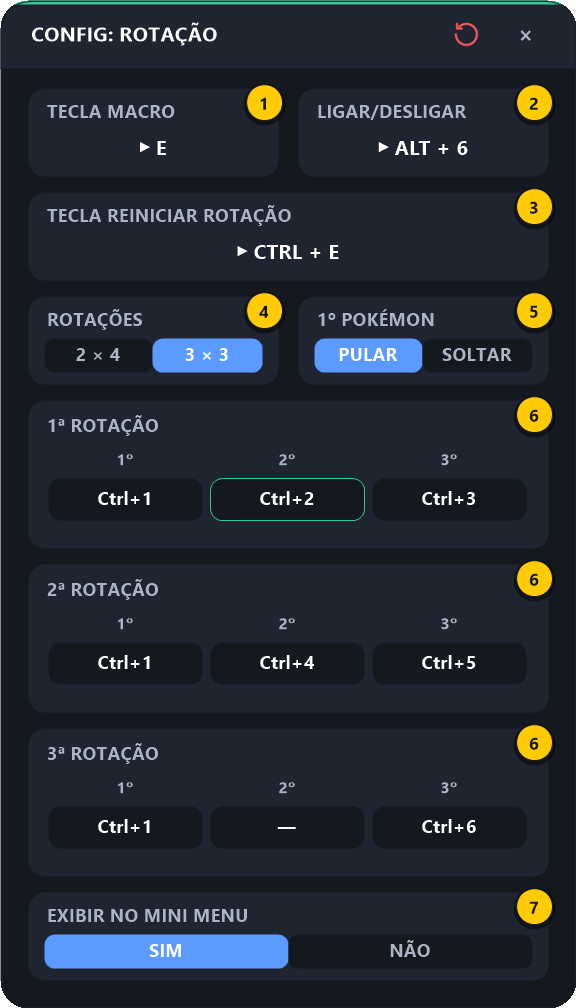
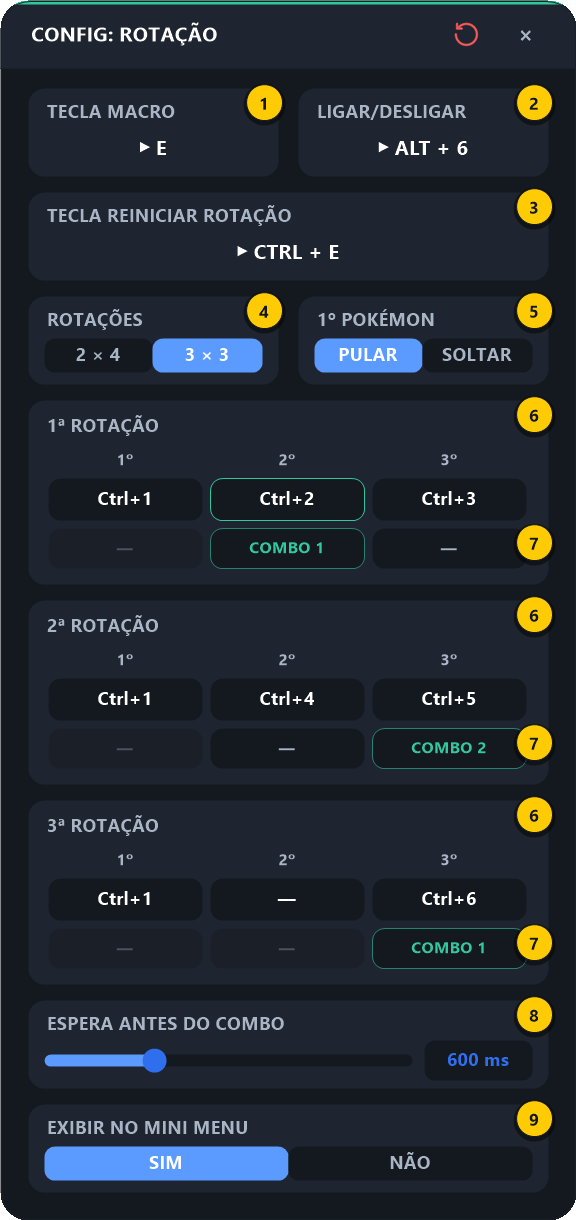
Rotação: soltar combo depois da troca, escolhido por passo
Cada passo da rotação pode soltar o Combo 1 (Principal) ou o Combo 2
(Secundário) logo depois do Ctrl+N, após uma espera configurável. O
combo roda num timer para apertos rápidos não serem descartados.

A interrupção de combo passa de flag para contador de geração: com a
flag, o combo interrompido voltava a soltar teclas depois que o novo
terminava.

diff --git a/docs/06-rotacao.md b/docs/06-rotacao.md
@@ -2,7 +2,7 @@
 
 [⬅ Cooldown](05-cooldown.md) · [README](../README.md) · Próximo: [Configurações Gerais ➡](07-configuracoes-gerais.md)
 
-A Rotação troca de pokémon com **uma tecla só**: cada vez que você aperta a **Tecla Macro**, ela envia o `Ctrl + N` do pokémon da vez e já passa para o próximo da ordem que você salvou. A HUD mostra, no próprio ícone, **qual `Ctrl + N` sai no próximo aperto**.
+A Rotação troca de pokémon com **uma tecla só**: cada vez que você aperta a **Tecla Macro**, ela envia o `Ctrl + N` do pokémon da vez e já passa para o próximo da ordem que você salvou. Se quiser, ela também **solta o Combo 1 ou o Combo 2 logo depois da troca** — você escolhe, passo por passo, em quais trocas isso acontece. A HUD mostra, no próprio ícone, **qual `Ctrl + N` sai no próximo aperto**.
 
 ---
 
@@ -17,8 +17,9 @@ A ordem é uma rotação depois da outra e, no fim da última, volta ao começo.
 
 Cada formato guarda a **sua própria** configuração: trocar de 2 × 4 para 3 × 3 e voltar não perde nada.
 
-- **Cada aperto envia um `Ctrl + N` só** — não há espera nem sequência automática; quem decide a hora de trocar é você.
-- **Cada aperto também para o combo que estiver rodando** (Combo Principal, Secundário ou Combo Revive). Assim as skills que faltavam — e o Full Defense — não saem no pokémon que acabou de entrar.
+- **Cada aperto envia um `Ctrl + N` só** — quem decide a hora de trocar é você.
+- **Cada aperto também para o combo que estiver rodando** (Combo Principal, Secundário, Combo Revive ou o combo pós-troca de um aperto anterior). Assim as skills que faltavam — e o Full Defense — não saem no pokémon que acabou de entrar.
+- **Combo depois da troca (opcional, por passo).** Embaixo de cada passo há uma opção: `—` (só troca, padrão), `COMBO 1` ou `COMBO 2`. Com um combo marcado, depois de enviar o `Ctrl + N` o macro espera a **Espera antes do combo** (o tempo do pokémon sair da pokébola) e solta o combo — veja [6.4](#64-combo-depois-da-troca).
 - Um passo **vazio (`—`)** é pulado. Ex.: no 2 × 4, deixando o 4º passo da 2ª rotação vazio, a ordem vira `1-2-3-4 | 1-2-5` e volta para o começo.
 - **Ligar a Rotação** (na HUD ou pelo atalho) sempre começa do início.
 - **O 1º pokémon de cada rotação fica com você (padrão).** Com a opção **1º Pokémon** em `PULAR`, o macro **nunca envia o 1º passo de nenhuma rotação**: você puxa esse pokémon à mão no começo de cada rotação, e o macro só chama do 2º em diante. Para o macro enviar o 1º passo também, mude a opção para `SOLTAR`.
@@ -58,7 +59,9 @@ Passe o mouse na HUD e clique no **⚙ abaixo do ícone da Rotação** (o 6º, d
 | **4** | **Rotações** | Formato: `2 × 4` (2 rotações de 4 pokémons) ou `3 × 3` (3 rotações de 3). A tela se ajusta na hora, com um cartão por rotação |
 | **5** | **1º Pokémon** | `PULAR` (padrão): o macro nunca envia o 1º passo das rotações — você puxa esse pokémon à mão. `SOLTAR`: o 1º passo sai normalmente |
 | **6** | **Rotações (cartões)** | Um cartão por rotação, com um botão por passo. Clicar num passo abre o seletor para escolher o pokémon (`1` a `6`) ou `—` (vazio) |
-| **7** | **Exibir no Mini Menu** | `NÃO` esconde o ícone da Rotação da HUD |
+| **7** | **Combo depois da troca** | A linha de baixo de cada cartão: o combo que sai logo depois de trocar para aquele passo — `—` (nenhum), `COMBO 1` (Combo Principal) ou `COMBO 2` (Combo Secundário). Fica apagada nos passos que o macro não envia (vazios, ou o 1º com `PULAR`) |
+| **8** | **Espera antes do combo** | Tempo (0 a 2000 ms, padrão 500) entre a troca e o 1º botão do combo, para o pokémon já estar fora. Só vale nos passos com combo |
+| **9** | **Exibir no Mini Menu** | `NÃO` esconde o ícone da Rotação da HUD |
 
 O passo que sai no próximo aperto aparece com contorno verde (nas imagens, o `Ctrl+4` da 1ª rotação no 2 × 4 e o `Ctrl+2` no 3 × 3).
 
@@ -72,8 +75,11 @@ O passo que sai no próximo aperto aparece com contorno verde (nas imagens, o `C
 
    > Mexer em qualquer passo (ou nas opções 4 e 5) **reinicia** a rotação.
 4. **1º Pokémon** (5): deixe em `PULAR` se você puxa o 1º pokémon à mão no começo de cada rotação (o normal). Escolha `SOLTAR` se quiser que o macro chame ele também.
-5. *(Opcional)* **Tecla Reiniciar Rotação** (3): útil se, no meio da luta, a ordem real dos pokémons sair do compasso da HUD.
-6. Feche no **×**.
+5. *(Opcional)* **Combo depois da troca** (7): clique na linha de baixo de um passo e escolha `—`, `C1` (Combo 1) ou `C2` (Combo 2). Ajuste a **Espera antes do combo** (8) se o combo começar antes do pokémon sair.
+
+   <p align="center"><img src="img/config-rotacao-combo.png" width="300" alt="Seletor do combo depois da troca aberto no 3º passo da 2ª rotação, com as opções vazio, C1 e C2"></p>
+6. *(Opcional)* **Tecla Reiniciar Rotação** (3): útil se, no meio da luta, a ordem real dos pokémons sair do compasso da HUD.
+7. Feche no **×**.
 
 ---
 
@@ -95,10 +101,25 @@ O passo que sai no próximo aperto aparece com contorno verde (nas imagens, o `C
 
 ---
 
-## 6.4 Problemas comuns
+## 6.4 Combo depois da troca
+
+Cada passo pode soltar um combo logo depois de trocar de pokémon. Ex.: na imagem do 6.2, a 1ª rotação está `(1 à mão) 2 → 3 + COMBO 1 → 4 + COMBO 2`: o aperto que chama o `Ctrl+2` só troca; o que chama o `Ctrl+3` troca e solta o Combo 1; o do `Ctrl+4` troca e solta o Combo 2.
+
+- **Combo 1** usa a configuração do **Combo Principal** e **Combo 2** a do **Combo Secundário** (botão inicial/final e Full Attack/Defense de cada um — veja [Combos](02-combos.md)), com o **Delay entre teclas** (o mesmo de todos os combos). Não precisa deixar aquele combo ligado na HUD.
+- Ordem de cada aperto: para o combo que estiver rodando → envia o `Ctrl + N` → espera a **Espera antes do combo** → solta o combo.
+- **Apertar a Tecla Macro de novo no meio do combo** para ele na hora e já faz a próxima troca (com o combo dela, se tiver).
+- O combo também para se o jogo perder o foco, se a Rotação for desligada, com a tecla de pânico ou com o Revive. Enquanto ele roda, as teclas do Combo Principal/Secundário são ignoradas (como durante qualquer combo).
+- A opção é guardada **por passo e por formato** (o 2 × 4 e o 3 × 3 têm as suas). Mudar o combo de um passo **não** reinicia a rotação.
+
+---
+
+## 6.5 Problemas comuns
 
 | Sintoma | Solução |
 |---------|---------|
+| Trocou mas não soltou o combo | Confira se o passo tem `COMBO 1`/`COMBO 2` na linha de baixo (7). Se a linha está apagada, o macro não envia aquele passo (vazio, ou o 1º com `PULAR`) |
+| Aviso *"ROTAÇÃO: configure os botões do COMBO PRINCIPAL"* (ou SECUNDÁRIO) | O passo usa um combo sem Botão Inicial/Final; configure-os na tela daquele combo |
+| O combo começa antes do pokémon sair (skills falham) | Aumente a **Espera antes do combo** (8) |
 | Soltou o pokémon errado | Confira o **formato** (4) e os passos das rotações (6); use a **Tecla Reiniciar Rotação** para voltar ao início |
 | No 3 × 3, não soltou o pokémon repetido da 3ª rotação | O 2º passo da 3ª rotação está `—` (padrão); escolha um `Ctrl + N` nele |
 | O macro nunca envia o 1º pokémon das rotações | É o padrão (`PULAR`); mude **1º Pokémon** (5) para `SOLTAR` |

diff --git a/CLAUDE.md b/CLAUDE.md
@@ -40,11 +40,11 @@ There is no test suite. To check a change:
 
 - Six macros, tracked in `macros` (bool map) and described in `MACROS_INFO` (globals.ahk): `comboPrincipal`, `comboSecundario`, `comboRevive`, `revive`, `cooldown`, `rotacao`. Each maps to an INI section and an "exec" key (the hotkey that runs it); the toggle key is always `toggleHotkey` in that same section.
 - `comboPrincipal`/`comboSecundario`/`comboRevive` are **mutually exclusive** (`COMBOS_EXCLUSIVOS`) — turning one on turns the others off via `DefinirMacro`.
-- `interrompivel` (in `MACROS_INFO`) controls both whether a macro's hotkey fires while another macro is mid-execution, and whether pressing it interrupts a running combo (`revive`, `comboRevive`, `cooldown`, `rotacao` are interruptible — `revive`/`comboRevive`/`rotacao` also stop a running combo via `interromperCombo`; the two plain combos are not, guarded by `_macroExecutando` in `ProcessarPressionamento`).
-- Combo sequencing (`_RodarSequenciaCombo` in `combo.ahk`) is shared by `comboPrincipal`/`comboSecundario`/`comboRevive`: optional Full Attack key → sequential keys from `teclaInicial` to `teclaFinal` (as `F<n>` or `<n>` depending on the global `usarPrefixoF` setting) → optional Full Defense key. All waits go through `EsperarInterrompivel(ms)`, which polls `_ComboPodeContinuar()` (checks the `interromperCombo` flag and `JogoAtivo()`) every ~10ms using a deadline computed from `A_TickCount` — plain `Sleep` accumulation was found to drift under Windows' ~15.6ms timer granularity.
+- `interrompivel` (in `MACROS_INFO`) controls both whether a macro's hotkey fires while another macro is mid-execution, and whether pressing it interrupts a running combo (`revive`, `comboRevive`, `cooldown`, `rotacao` are interruptible — `revive`/`comboRevive`/`rotacao` also stop a running combo via `InterromperCombo()`; the two plain combos are not, guarded by `_macroExecutando` in `ProcessarPressionamento`).
+- Combo sequencing (`_RodarSequenciaCombo` in `combo.ahk`) is shared by `comboPrincipal`/`comboSecundario`/`comboRevive` and Rotação's post-swap combo: optional Full Attack key → sequential keys from `teclaInicial` to `teclaFinal` (as `F<n>` or `<n>` depending on the global `usarPrefixoF` setting) → optional Full Defense key. Interruption is a generation counter, not a flag: `InterromperCombo()` bumps `_comboGeracao` and returns the new value; every combo run captures that `gen` and stops once it changes (a flag broke when the interrupter also runs a combo — AHK suspends the older thread until the newer one finishes, so the old combo resumed afterwards). All waits go through `EsperarInterrompivel(ms, gen)`, which polls `_ComboPodeContinuar(gen)` (generation unchanged and `JogoAtivo()`) every ~10ms using a deadline computed from `A_TickCount` — plain `Sleep` accumulation was found to drift under Windows' ~15.6ms timer granularity.
 - `revive.ahk`'s `_EnviarSequenciaRevive` runs in `Critical` mode so another hotkey thread can't interleave key-up/down events mid-sequence; `_reviveOcupado` is a re-entrancy lock shared between `revive` and `comboRevive` (both ultimately call this same function). Behavior branches on the global `modoLegado` setting (right-click targeting vs. `Ctrl+1` slot select).
 - `cooldown.ahk` walks Pokémon slots from `pokemonInicial` down to 1, sending `Ctrl+<mapped key>` per slot (no mouse click/position) (the mapped key lets slot order differ from team order), waiting a per-slot configured number of seconds between each. Auto re-focuses the game window mid-wait if it lost focus, and bails out if the game process disappears entirely.
-- `rotacao.ahk`: each exec press sends one `Ctrl+<slot>` and advances `_rotacaoPos` (in-memory only) through the sequence of all rotations in order. Format `formato` = `2x4` (2 rotations × 4 steps, INI keys `r<rot>p<passo>`) or `3x3` (3 × 3, keys `t<rot>p<passo>` — separate so switching keeps both configs); see `GetFormatoRotacao`/`_CfgSlotRotacao`/`_ChaveSlotRotacao`. 0 = empty/skipped step (3x3 defaults rot 3 step 2 to empty: the "repeated pokémon" the user can opt into). The config screen's height depends on the format (`AlturaConfigRotacao`), so changing format reopens it via `SetTimer`. Turning the macro on (`DefinirMacro`), editing the config, or the extra `teclaReiniciar` hotkey (a non-exec slot in `_HotkeySlots`) reset it to step 1 of the sequence. Unless `enviarPrimeiro=true`, `RotacaoSequencia` drops step 1 of *every* rotation (the player pulls that pokémon manually at the start of each rotation), so the default sequence is `2-3-4 | 2-5-6` (2x4) or `2-3 | 4-5 | 6` (3x3). Each press also sets `interromperCombo` so a running combo stops before the swap. Its icon is `icons/rotacao.png`; when the macro is on, `_HudDesenharIconeRotacao` darkens it and draws the next slot number on top.
+- `rotacao.ahk`: each exec press sends one `Ctrl+<slot>` and advances `_rotacaoPos` (in-memory only) through the sequence of all rotations in order. Format `formato` = `2x4` (2 rotations × 4 steps, INI keys `r<rot>p<passo>`) or `3x3` (3 × 3, keys `t<rot>p<passo>` — separate so switching keeps both configs); see `GetFormatoRotacao`/`_CfgSlotRotacao`/`_ChaveSlotRotacao`. 0 = empty/skipped step (3x3 defaults rot 3 step 2 to empty: the "repeated pokémon" the user can opt into). The config screen's height depends on the format (`AlturaConfigRotacao`), so changing format reopens it via `SetTimer`. Turning the macro on (`DefinirMacro`), editing the config, or the extra `teclaReiniciar` hotkey (a non-exec slot in `_HotkeySlots`) reset it to step 1 of the sequence. Unless `enviarPrimeiro=true`, `RotacaoSequencia` drops step 1 of *every* rotation (the player pulls that pokémon manually at the start of each rotation), so the default sequence is `2-3-4 | 2-5-6` (2x4) or `2-3 | 4-5 | 6` (3x3). Each press also calls `InterromperCombo()` so a running combo stops before the swap. Each step can also fire a combo after the swap (INI key = step key + `c`, 0 none / 1 `comboPrincipal` / 2 `comboSecundario`, see `_CfgComboRotacao`/`COMBOS_ROTACAO`), after `delayCombo` ms; it runs from a `SetTimer` (`_RodarComboRotacao`), not the hotkey thread, because `#MaxThreadsPerHotkey 2` would drop rapid presses during a long combo. It uses that combo's keys even if that combo macro is off. Its icon is `icons/rotacao.png`; when the macro is on, `_HudDesenharIconeRotacao` darkens it and draws the next slot number on top.
 - All macro key/hotkey capture and conflict checking goes through `lib/input.ahk` + `ConflitoDeTecla`/`HotkeySlotExiste` in `macros/hotkeys.ahk` — don't hand-roll new `Hotkey()` registrations elsewhere.
 
 ### User documentation (`README.md` + `docs/`)

diff --git a/README.md b/README.md
@@ -32,7 +32,7 @@ Tutoriais ilustrados de como configurar e usar cada função, tela por tela:
 | 3 | [Revive](docs/03-revive.md) | Reviver com um botão + detecção do pokémon (ícone do dedo) |
 | 4 | [Combo Revive](docs/04-combo-revive.md) | Reviver e já soltar um combo |
 | 5 | [Cooldown](docs/05-cooldown.md) | Rotação de pokémons com `Ctrl + N` e tempos por posição |
-| 6 | [Rotação](docs/06-rotacao.md) | Uma tecla que troca de pokémon numa ordem salva, com o próximo `Ctrl + N` na HUD |
+| 6 | [Rotação](docs/06-rotacao.md) | Uma tecla que troca de pokémon numa ordem salva (e, se quiser, solta um combo logo depois), com o próximo `Ctrl + N` na HUD |
 | 7 | [Configurações Gerais](docs/07-configuracoes-gerais.md) | Prefixo F, Modo Legado, tamanho, HUD vertical, Tecla de Pânico, Full Attack/Defense |
 
 <p align="center"><img src="docs/img/hud-hover.png" width="480" alt="HUD do PokéMacro"></p>
@@ -340,6 +340,7 @@ Funciona exatamente igual ao **Combo Principal**, mas é uma configuração sepa
 2. Passos vazios (`—`) são pulados — ex.: o 2º passo da 3ª rotação no 3 × 3 (o pokémon repetido) vem vazio; com um `Ctrl+N` nele, a repetição passa a sair.
 3. Ligar a Rotação sempre começa do início; a **Tecla Reiniciar Rotação** faz o mesmo no meio do jogo. Por padrão o macro **pula o 1º passo de todas as rotações** (você puxa esse pokémon à mão no começo de cada rotação): no 2 × 4 os apertos enviam `2-3-4 | 2-5-6`, no 3 × 3 `2-3 | 4-5 | 6`, e voltam para o `2`.
 4. Cada aperto **interrompe o combo em andamento**, para as skills restantes não saírem no pokémon que acabou de entrar.
+5. **Combo depois da troca (opcional, por passo):** cada passo pode soltar o **Combo 1** (config do Combo Principal) ou o **Combo 2** (config do Combo Secundário) logo depois do `Ctrl+N`, após a **Espera antes do combo**. Apertar a Tecla Macro de novo no meio do combo para ele e já faz a próxima troca.
 
 #### Opções de Configuração
 
@@ -351,6 +352,8 @@ Funciona exatamente igual ao **Combo Principal**, mas é uma configuração sepa
 | **Rotações** | Formato `2 × 4` ou `3 × 3` — a tela mostra um cartão por rotação |
 | **1º Pokémon** | `PULAR` (padrão): o 1º passo das rotações nunca é enviado (puxado à mão). `SOLTAR`: o 1º passo sai normalmente |
 | **Cartões das rotações** | O `Ctrl+N` de cada passo. Clicar num passo abre um seletor com `1` a `6` e `—` (vazio); clicar fora ou `Esc` fecha. Mexer em um passo reinicia a rotação |
+| **Combo depois da troca** | Linha de baixo de cada cartão: `—` (nenhum), `COMBO 1` ou `COMBO 2` — o combo solto logo depois de trocar para aquele passo. Não reinicia a rotação |
+| **Espera antes do combo** | Tempo (0–2000 ms, padrão 500) entre a troca e o combo, para o pokémon já estar fora |
 
 ---
 
